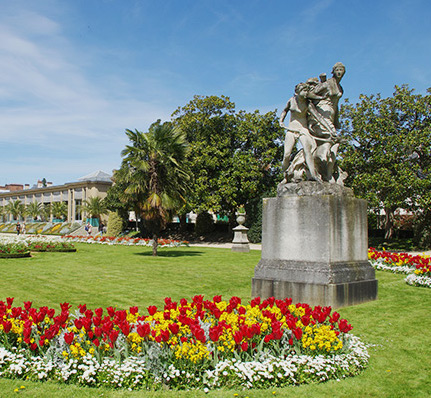
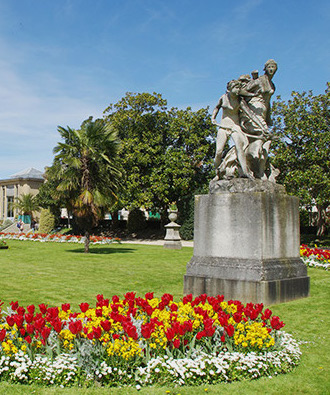
nouvelle photo de fond

diff --git a/src/sass/_index.scss b/src/sass/_index.scss
@@ -174,8 +174,6 @@
   width: fit-content;
   margin: auto;
   @media screen and (max-width: 650px) {
-    // color: #01fa4c;
-    // color: #ccf1d7;
     text-shadow: 2px 2px 2px #01fa4c;
   }
 }
